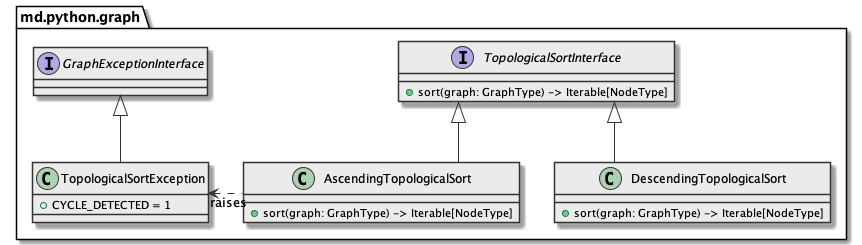
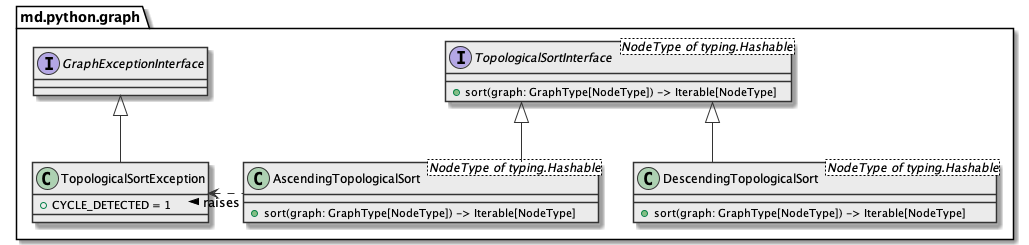
enhancement: clarify generics types to explicit, fix `mypy` errors

diff --git a/lib/md/python/graph.py b/lib/md/python/graph.py
@@ -3,7 +3,7 @@ import typing
 
 # Metadata
 __author__ = 'https://md.land/md'
-__version__ = '1.0.0'
+__version__ = '1.1.0'
 __all__ = (
     # Metadata
     '__author__',
@@ -40,13 +40,13 @@ class GraphExceptionInterface:
 class TopologicalSortException(RuntimeError, GraphExceptionInterface):
     CYCLE_DETECTED = 1
 
-    def __init__(self, *args, code: int = 0, graph: GraphType = None, **kwargs) -> None:
-        super().__init__(*args, **kwargs)
+    def __init__(self, *args, code: int = 0, graph: typing.Optional[GraphType] = None) -> None:
+        super().__init__(*args)
         self.code = code
         self.graph = graph
 
     @classmethod
-    def as_cycle_detected(class_, graph: GraphType = None) -> 'TopologicalSortException':
+    def as_cycle_detected(class_, graph: typing.Optional[GraphType] = None) -> 'TopologicalSortException':
         return class_(
             'Unable to perform topological sort, graph contains a cycle',
             code=class_.CYCLE_DETECTED,
@@ -55,8 +55,8 @@ class TopologicalSortException(RuntimeError, GraphExceptionInterface):
 
 
 # Contract
-class TopologicalSortInterface:
-    def sort(self, graph: GraphType) -> typing.Iterable[NodeType]:
+class TopologicalSortInterface(typing.Generic[NodeType]):
+    def sort(self, graph: GraphType[NodeType]) -> typing.Iterable[NodeType]:
         """
         Performs graph topological sorting and returns sequence of nodes
         :param graph: Generic graph structure represented by Mapping of Hashable nodes
@@ -66,7 +66,7 @@ class TopologicalSortInterface:
 
 
 # Implementation
-def topological_sort_ascending(graph: GraphType) -> typing.Iterable[NodeType]:
+def topological_sort_ascending(graph: GraphType[NodeType]) -> typing.Iterable[NodeType]:
     """
     Performs graph topological sorting and returns sequence of nodes (from the bottom)
 
@@ -82,7 +82,7 @@ def topological_sort_ascending(graph: GraphType) -> typing.Iterable[NodeType]:
     for node, related_node_collection in graph.items():
         normalized_graph[node] = set(related_node_collection)
 
-    leave_node_set = set()
+    leave_node_set: typing.Set[NodeType] = set()
 
     # 2. Search for nodes which are not explicitly defined as an empty graph
     for related_node_set in normalized_graph.values():
@@ -100,7 +100,7 @@ def topological_sort_ascending(graph: GraphType) -> typing.Iterable[NodeType]:
             break
 
         try:
-            yield from sorted(leave_node_set)
+            yield from sorted(leave_node_set)  # type: ignore
         except TypeError:
             yield from leave_node_set
 
@@ -116,8 +116,8 @@ def topological_sort_ascending(graph: GraphType) -> typing.Iterable[NodeType]:
 
 
 def topological_sort_descending(
-    graph: GraphType,
-    initial_node: typing.Iterable[NodeType] = None
+    graph: GraphType[NodeType],
+    initial_node: typing.Optional[typing.Iterable[NodeType]] = None
 ) -> typing.Iterable[NodeType]:
     """
     Performs graph topological sorting and returns sequence of nodes (from the top)
@@ -160,9 +160,9 @@ def topological_sort_descending(
                 yield pending_node
 
 
-def get_paths(graph: GraphType, include_subtree: bool = False) -> typing.Tuple[
-    typing.List[GraphPathType],  # path list without cycle
-    typing.List[GraphPathType],  # path list with cycle
+def get_paths(graph: GraphType[NodeType], include_subtree: bool = False) -> typing.Tuple[
+    typing.Sequence[GraphPathType[NodeType]],  # path list without cycle
+    typing.Sequence[GraphPathType[NodeType]],  # path list with cycle
 ]:
     """
     Returns two-sized tuple of graph paths list:
@@ -209,9 +209,9 @@ def get_paths(graph: GraphType, include_subtree: bool = False) -> typing.Tuple[
     # 2. Build result
     node_list = elder_node_heap
     if include_subtree:
-        node_list = node_path_map.keys()
+        node_list = list(node_path_map.keys())
 
-    path_list: typing.List[GraphPathType] = []
+    path_list: typing.List[GraphPathType[NodeType]] = []
     cycle_path_list = []
 
     for root_node in node_list:
@@ -223,11 +223,11 @@ def get_paths(graph: GraphType, include_subtree: bool = False) -> typing.Tuple[
     return path_list, cycle_path_list
 
 
-class AscendingTopologicalSort(TopologicalSortInterface, typing.Generic[NodeType]):
-    def sort(self, graph: GraphType) -> typing.Iterable[NodeType]:
+class AscendingTopologicalSort(TopologicalSortInterface[NodeType]):
+    def sort(self, graph: GraphType[NodeType]) -> typing.Iterable[NodeType]:
         return topological_sort_ascending(graph=graph)
 
 
-class DescendingTopologicalSort(TopologicalSortInterface, typing.Generic[NodeType]):
-    def sort(self, graph: GraphType) -> typing.Iterable[NodeType]:
+class DescendingTopologicalSort(TopologicalSortInterface[NodeType]):
+    def sort(self, graph: GraphType[NodeType]) -> typing.Iterable[NodeType]:
         return topological_sort_descending(graph=graph)

diff --git a/setup.py b/setup.py
@@ -5,7 +5,7 @@ with open('readme.md') as fh:
 
 setuptools.setup(
     name='md.python.graph',
-    version='1.0.0',
+    version='1.1.0',
     description='Set of contracts & operations over graph type',
     long_description=long_description,
     long_description_content_type='text/markdown',

diff --git a/docs/index.md b/docs/index.md
@@ -15,19 +15,19 @@ graph type, and provides few useful tools out from box.
 NodeType = typing.TypeVar('NodeType', bound=typing.Hashable)
 GraphType = typing.Mapping[NodeType, typing.Collection[NodeType]]
 GraphPathType = typing.Iterable[NodeType]
-TopologicalSortType = typing.Callable[[GraphType], typing.Iterable[NodeType]]
+TopologicalSortType = typing.Callable[[GraphType[NodeType]], typing.Iterable[NodeType]]
 
 # Implementation 
-def topological_sort_ascending(graph: GraphType) -> typing.Iterable[NodeType]: ...
+def topological_sort_ascending(graph: GraphType[NodeType]) -> typing.Iterable[NodeType]: ...
 
 def topological_sort_descending(
-    graph: GraphType,
+    graph: GraphType[NodeType],
     initial_node: typing.Iterable[NodeType] = None
 ) -> typing.Iterable[NodeType]: ...
 
-def get_paths(graph: GraphType, include_subtree: bool = False) -> typing.Tuple[
-    typing.List[GraphPathType],
-    typing.List[GraphPathType],
+def get_paths(graph: GraphType[NodeType], include_subtree: bool = False) -> typing.Tuple[
+    typing.List[GraphPathType[NodeType]],
+    typing.List[GraphPathType[NodeType]],
 ]: ...
 ```
 
@@ -54,7 +54,7 @@ but defines algorithm direction of nodes traversing.
 #### Ascending topological sorting
 
 ```python3
-def topological_sort_ascending(graph: GraphType) -> typing.Iterable[NodeType]: ...
+def topological_sort_ascending(graph: GraphType[NodeType]) -> typing.Iterable[NodeType]: ...
 ```
 
 Ascending topological sorting performs sorting from the bottom to the top,
@@ -117,7 +117,7 @@ a cycle (see [get_path](#graph-paths-retrieval) below, for example).
 
 ```python3
 def topological_sort_descending(
-    graph: GraphType,
+    graph: GraphType[NodeType],
     initial_node: typing.Iterable[NodeType] = None
 ) -> typing.Iterable[NodeType]: ...
 ```
@@ -188,9 +188,9 @@ and default implementation:
 ### Graph paths retrieval
 
 ```python3
-def get_paths(graph: GraphType, include_subtree: bool = False) -> typing.Tuple[
-    typing.List[GraphPathType],
-    typing.List[GraphPathType],
+def get_paths(graph: GraphType[NodeType], include_subtree: bool = False) -> typing.Tuple[
+    typing.List[GraphPathType[NodeType]],
+    typing.List[GraphPathType[NodeType]],
 ]: ...
 ```
 

diff --git a/readme.md b/readme.md
@@ -14,19 +14,19 @@ graph type, and provides few useful tools out from box.
 NodeType = typing.TypeVar('NodeType', bound=typing.Hashable)
 GraphType = typing.Mapping[NodeType, typing.Collection[NodeType]]
 GraphPathType = typing.Iterable[NodeType]
-TopologicalSortType = typing.Callable[[GraphType], typing.Iterable[NodeType]]
+TopologicalSortType = typing.Callable[[GraphType[NodeType]], typing.Iterable[NodeType]]
 
 # Implementation 
-def topological_sort_ascending(graph: GraphType) -> typing.Iterable[NodeType]: ...
+def topological_sort_ascending(graph: GraphType[NodeType]) -> typing.Iterable[NodeType]: ...
 
 def topological_sort_descending(
-    graph: GraphType,
+    graph: GraphType[NodeType],
     initial_node: typing.Iterable[NodeType] = None
 ) -> typing.Iterable[NodeType]: ...
 
-def get_paths(graph: GraphType, include_subtree: bool = False) -> typing.Tuple[
-    typing.List[GraphPathType],
-    typing.List[GraphPathType],
+def get_paths(graph: GraphType[NodeType], include_subtree: bool = False) -> typing.Tuple[
+    typing.List[GraphPathType[NodeType]],
+    typing.List[GraphPathType[NodeType]],
 ]: ...
 ```
 

diff --git a/changelog.md b/changelog.md
@@ -5,6 +5,11 @@ All notable changes to this project will be documented in this file.
 The format is based on [Keep a Changelog](https://keepachangelog.com/en/1.0.0/),
 and this project adheres to [Semantic Versioning](https://semver.org/spec/v2.0.0.html).
 
+## Unreleased
+### Changed
+
+- [x] enhancement: clarify generics types to explicit, fix `mypy` errors
+
 ## [1.0.0] - 2024-09-01
 
 - Initial implementation
